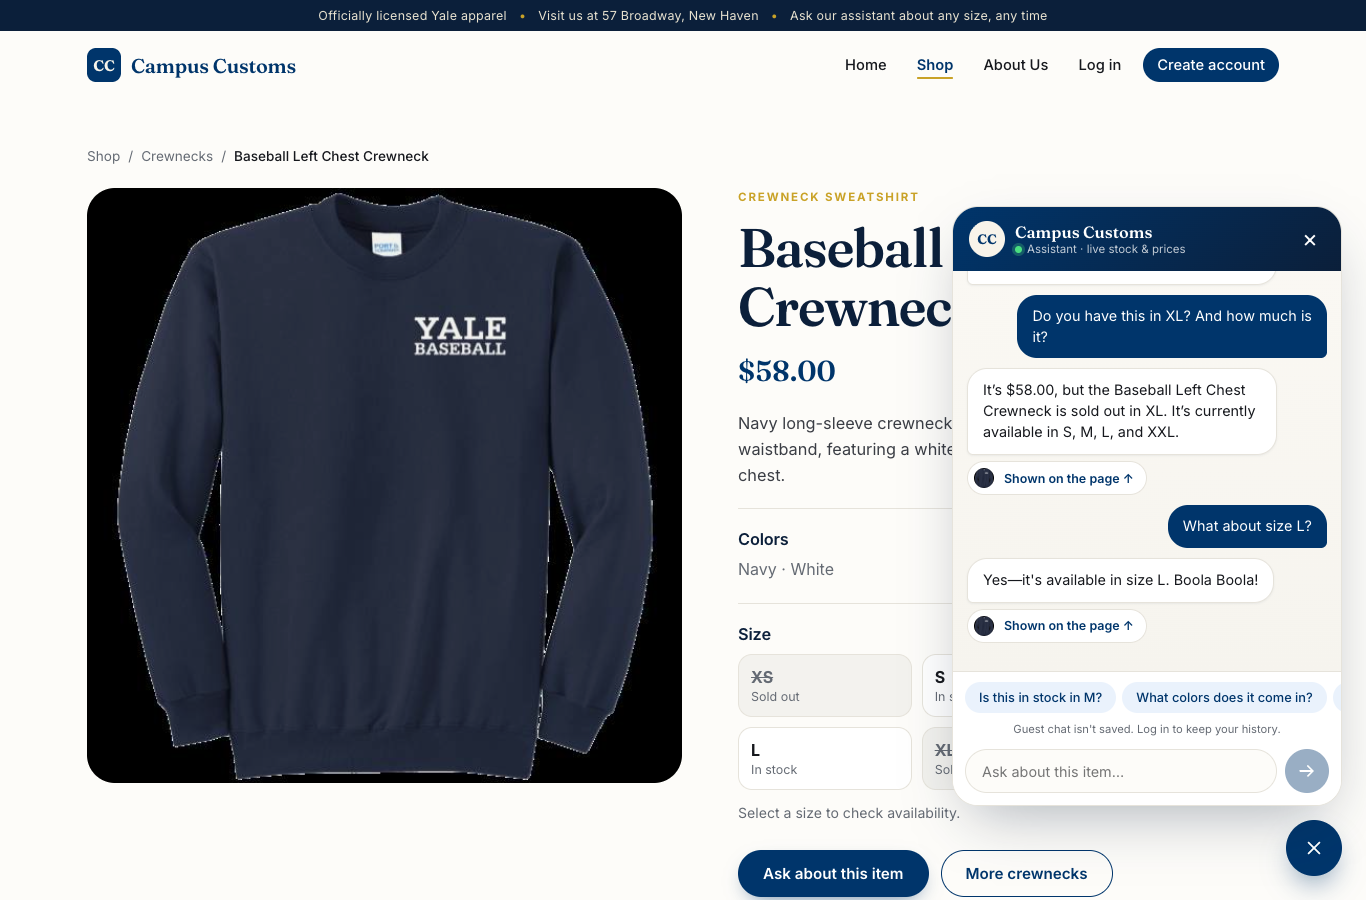
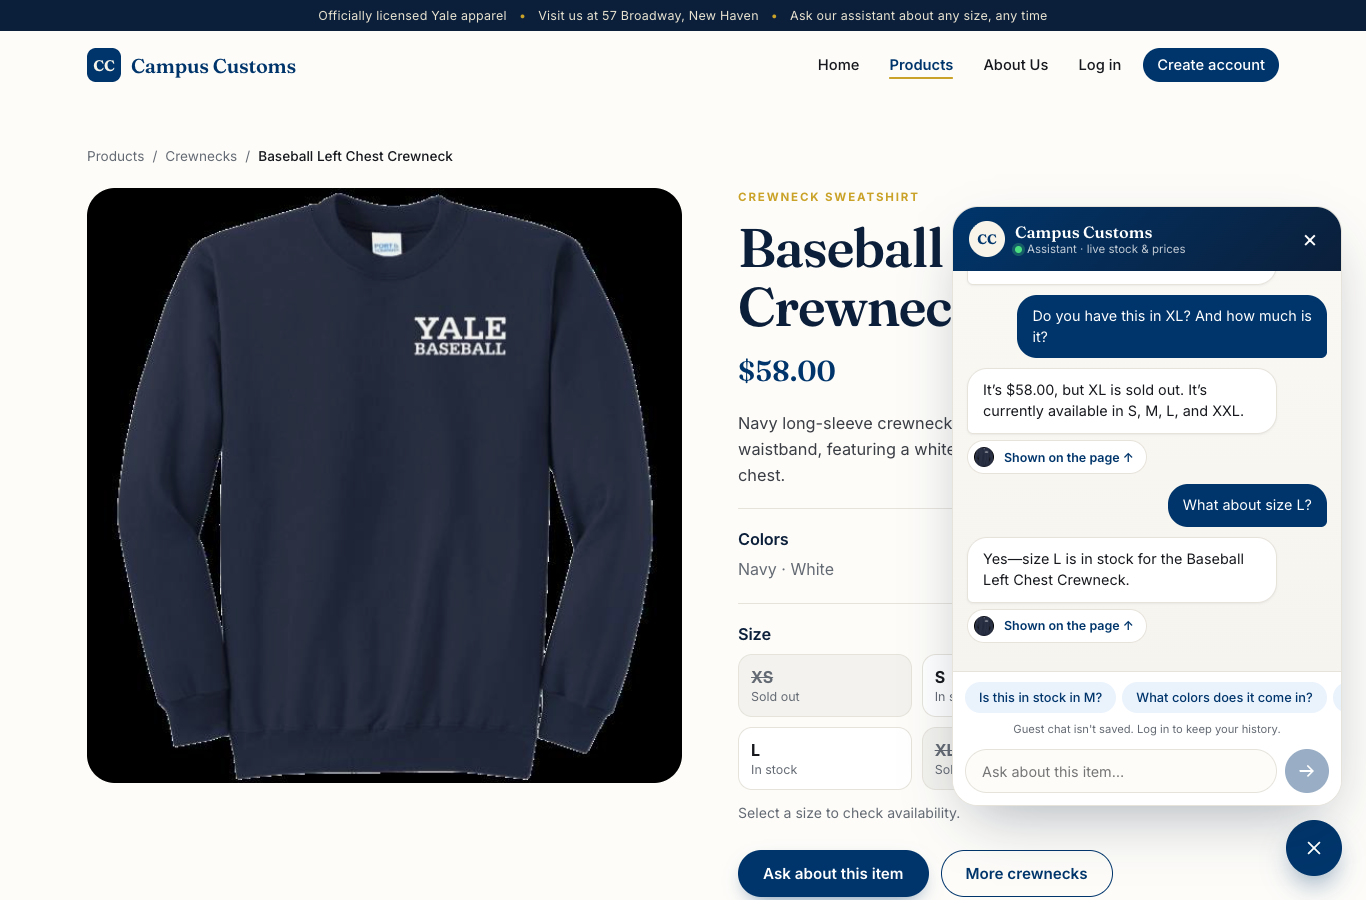
Pre-submission fixes: Products nav label, auth data docs, prompt log
- Nav link back to "Products" as required by Problem 3 (was "Shop")
- harness.md: explicit table of what is stored per user (Problem 4)
- AI_prompts.md: log the Problem 13 follow-up prompt
- Re-captured app_check screenshots with the corrected nav; captions match new replies
- audit_trail.json: new entries appended from live use

diff --git a/output/app_check.html b/output/app_check.html
@@ -88,13 +88,13 @@
 
       <figure>
         <a href="app_check_images/1-honest-stock-price.png" target="_blank"><img src="app_check_images/1-honest-stock-price.png" alt="Chat on the Baseball Left Chest Crewneck page answering that XL is sold out and the price is $58.00" /></a>
-        <figcaption><strong>Sold-out size, exact price.</strong> On the Baseball Left Chest Crewneck page the shopper asks <q>Do you have this in XL? And how much is it?</q>. The assistant knows what "this" means from the page context and replies <q>It's $58.00, but the Baseball Left Chest Crewneck is sold out in XL. It's currently available in S, M, L, and XXL.</q> This matches the DB and the size grid on the page (XS and XL struck through).</figcaption>
+        <figcaption><strong>Sold-out size, exact price.</strong> On the Baseball Left Chest Crewneck page the shopper asks <q>Do you have this in XL? And how much is it?</q>. The assistant knows what "this" means from the page context and replies <q>It's $58.00, but XL is sold out. It's currently available in S, M, L, and XXL.</q> This matches the DB and the size grid on the page (XS and XL struck through).</figcaption>
       </figure>
 
       <div class="pair">
         <figure>
           <a href="app_check_images/1b-honest-stock-followup.png" target="_blank"><img src="app_check_images/1b-honest-stock-followup.png" alt="Follow-up question about size L answered as available" /></a>
-          <figcaption><strong>In-stock follow-up.</strong> <q>What about size L?</q> → <q>Yes—it's available in size L.</q> (DB: L = 25.) The assistant re-checks stock with its tool on every turn instead of reusing earlier answers.</figcaption>
+          <figcaption><strong>In-stock follow-up.</strong> <q>What about size L?</q> → <q>Yes—size L is in stock for the Baseball Left Chest Crewneck.</q> (DB: L = 25.) The assistant re-checks stock with its tool on every turn instead of reusing earlier answers.</figcaption>
         </figure>
         <div class="evidence">
           <h3>Database evidence</h3>
@@ -123,7 +123,7 @@
 
       <figure>
         <a href="app_check_images/2-dynamic-cards.png" target="_blank"><img src="app_check_images/2-dynamic-cards.png" alt="'From your chat · Hoodies' row of 12 product cards at the top of the home page" /></a>
-        <figcaption><strong>Cards appear on the page.</strong> The shopper asks <q>What hoodies do you have?</q>. The agent replies <q>We have 27 hoodies—here are 12 favorites on the page…</q> and a <b>"From your chat · Hoodies (12)"</b> row of product cards (photo, name, price, stock badge) slides in at the top of the page. The DB has 27 hoodie-type products, and the card data comes from the database, not from the AI's text.</figcaption>
+        <figcaption><strong>Cards appear on the page.</strong> The shopper asks <q>What hoodies do you have?</q>. The agent replies <q>We have 27 hoodies—here are 12 options on the page…</q> and a <b>"From your chat · Hoodies (12)"</b> row of product cards (photo, name, price, stock badge) slides in at the top of the page. The DB has 27 hoodie-type products, and the card data comes from the database, not from the AI's text.</figcaption>
       </figure>
 
       <div class="pair">
@@ -175,7 +175,7 @@
         <li>Check 2: Home → chat <q>What hoodies do you have?</q> → click any card.</li>
         <li>Check 3: Shop → type <q>saybrok</q> in the search box.</li>
       </ol>
-      <p>Screenshots were captured from the live site with headless Chrome on 2026-10-06 (model <code>gpt-5.6-luna</code> via Portkey). AI wording can vary slightly between runs; the stock and price facts come from the database.</p>
+      <p>Screenshots were captured from the live site with headless Chrome on 2026-10-07 (model <code>gpt-5.6-luna</code> via Portkey). AI wording can vary slightly between runs; the stock and price facts come from the database.</p>
     </section>
   </main>
 

diff --git a/frontend/src/pages/ProductDetail.tsx b/frontend/src/pages/ProductDetail.tsx
@@ -36,7 +36,7 @@ export default function ProductDetail() {
   return (
     <section className="page">
       <nav className="crumbs" aria-label="Breadcrumb">
-        <Link to="/products">Shop</Link>
+        <Link to="/products">Products</Link>
         {category && <><span>/</span><Link to={`/products?cat=${category.slug}`}>{category.label}</Link></>}
         <span>/</span><span aria-current="page">{product.name}</span>
       </nav>

diff --git a/frontend/src/components/NavBar.tsx b/frontend/src/components/NavBar.tsx
@@ -37,7 +37,7 @@ export default function NavBar() {
           </button>
           <nav className={`nav-links${menuOpen ? ' open' : ''}`}>
             <NavLink to="/" end>Home</NavLink>
-            <NavLink to="/products">Shop</NavLink>
+            <NavLink to="/products">Products</NavLink>
             <NavLink to="/about">About Us</NavLink>
             {user ? (
               <>

diff --git a/output/harness.md b/output/harness.md
@@ -84,6 +84,18 @@ Code: `backend/auth.py` (API) · `frontend/src/auth.tsx` (session state) · `fro
 3. **Session:** The token is signed with `itsdangerous` (HMAC) and holds only the user ID; it expires after 7 days. The frontend keeps it in `localStorage`, sends it as a Bearer header, and calls `/me` on page load to restore the session. Log out deletes the token.
 4. **Who sees what:** API responses only ever return `id`, `name`, `first_name`, `last_name`, `email`. `password_hash` never leaves the backend and is never given to the chatbot.
 
+### What's stored per user (`users` table)
+| Column | Stored value |
+|---|---|
+| `id` | Auto-increment account id (used for sessions, chat history, audit `user_id`) |
+| `first_name`, `last_name` | As typed at signup (trimmed, 1–50 chars each) |
+| `name` | "First Last" (fills the table's existing NOT NULL column) |
+| `email` | Lower-cased, unique (login identifier) |
+| `password_hash` | **Argon2id hash only**, e.g. `$argon2id$v=19$m=65536,t=3,p=4$<salt>$<hash>`. The plain password is never stored, logged, or returned |
+| `created_at` | Set by SQLite (`datetime('now')`) |
+
+Logged-in users' chat messages are stored separately in `chat_messages` (see Customer memory).
+
 ### How passwords are protected
 - **Never stored in plain text.** New passwords are hashed with **Argon2id** (`argon2-cffi`, 64 MiB memory, 3 passes, 4 lanes, random 16-byte salt per password). Argon2id won the Password Hashing Competition and is memory-hard, which makes GPU brute-force expensive. (Chose `argon2-cffi` over `passlib` because passlib is unmaintained and breaks on current Python.)
 - **Seed users still work.** The provided DB stores `pbkdf2_sha256$<salt>$<hex>` hashes (PBKDF2-HMAC-SHA256, 120,000 iterations — determined by verifying the test user). The backend verifies that format with a constant-time comparison (`hmac.compare_digest`).

diff --git a/AI_prompts.md b/AI_prompts.md
@@ -324,6 +324,6 @@ Problem 13 — Push to GitHub and submit the URL
 > 4. write a simple README.md explaining how to run the front end and backend after putting the data pack (data/campus_customs.db and data/products/) in place.
 
 ### 3. Follow-up prompt (if needed)
-_None needed._
+> push it
 
-**What was missing after the first prompt:** _N/A_
+**What was missing after the first prompt:** The first prompt only got the folder ready (gitignore, .env.example, README, structure), but the code still wasn't on GitHub, so I had to ask it to actually create the public repo and push.
